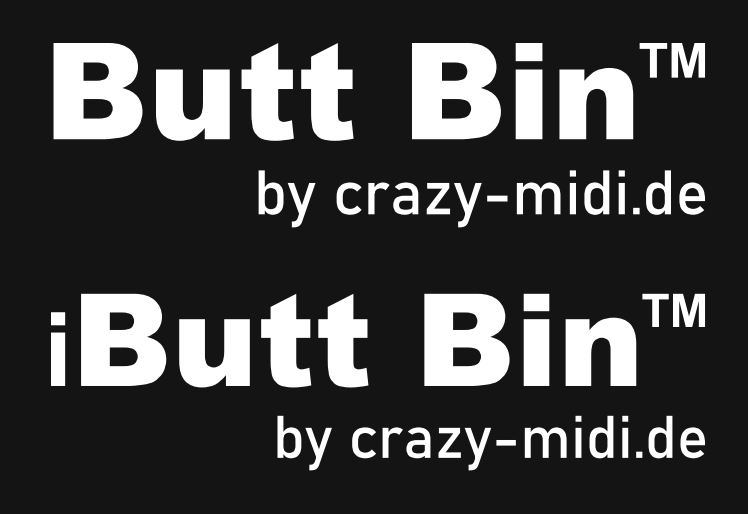
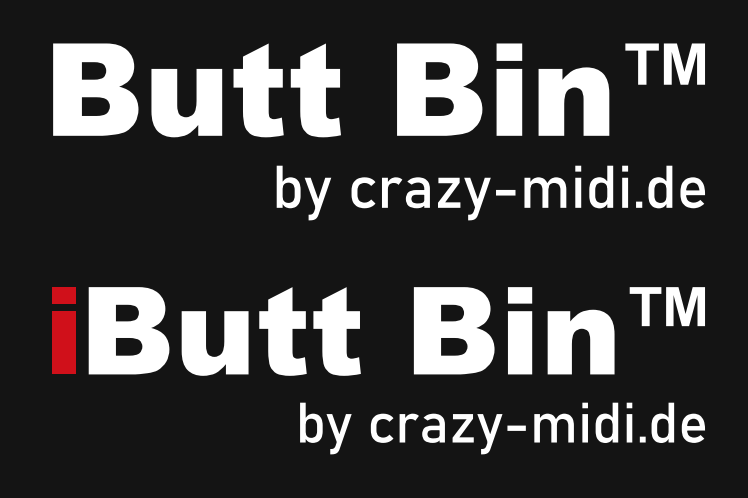
Sticker: real trademark glyph, red i in the same face and size
The TM is now the ™ character. In the i variant the i is set like the
Apple names: same typeface and size as the rest, only red (separate
path with id Akzent in the SVG for a second print colour).
aufkleber_i_am_ascher.png shows it on the pot.

diff --git a/design/aufkleber/gen_aufkleber.py b/design/aufkleber/gen_aufkleber.py
@@ -17,16 +17,17 @@ FONTS = os.path.join(os.environ.get("WINDIR", r"C:\Windows"), "Fonts")
 WIDTH = 30.0          # Breite des Aufklebers in mm
 MARGIN = 1.0          # Rand um den Text in mm (Schnittkante)
 COLORS = {"weiss": "#ffffff", "schwarz": "#000000"}   # weiss: fuer die schwarze Haube (Weissdruck)
+ACCENT = "#d0101a"    # Akzentfarbe (rot) fuer das vorangestellte Zeichen
 
 name = TextPath((0, 0), "Butt Bin", size=10, prop=FontProperties(fname=os.path.join(FONTS, "ariblk.ttf")))
-# Variante zur Ansicht: kleines vorangestelltes Zeichen (z. B. AUFKLEBER_PREFIX=i -> "iButt Bin"), eigene Dateien
+# Variante: vorangestelltes Zeichen in Rot (AUFKLEBER_PREFIX=i -> "iButt Bin"), eigene Dateien
 PREFIX = os.environ.get("AUFKLEBER_PREFIX", "")
 SUFFIX = "_" + PREFIX if PREFIX else ""
+pre = None
 if PREFIX:
-    pre = TextPath((0, 0), PREFIX, size=8.0, prop=FontProperties(fname=os.path.join(FONTS, "arialbd.ttf")))
-    pw = pre.vertices[:, 0].max() + 0.5
-    name = Path.make_compound_path(pre, Path(name.vertices + (pw, 0), name.codes))
-tm = TextPath((0, 0), "TM", size=3.6, prop=FontProperties(fname=os.path.join(FONTS, "arialbd.ttf")))
+    pre = TextPath((0, 0), PREFIX, size=10, prop=FontProperties(fname=os.path.join(FONTS, "ariblk.ttf")))   # wie bei Apple: gleiche Schrift und Groesse
+    name = Path(name.vertices + (pre.vertices[:, 0].max() + 0.3, 0), name.codes)
+tm = TextPath((0, 0), "™", size=8.0, prop=FontProperties(fname=os.path.join(FONTS, "arialbd.ttf")))   # Zeichen ™
 by = TextPath((0, 0), "by crazy-midi.de", size=4.6, prop=FontProperties(fname=os.path.join(FONTS, "bahnschrift.ttf")))
 
 
@@ -39,15 +40,18 @@ def moved(p, dx, dy):
     return Path(p.vertices + (dx, dy), p.codes)
 
 
-# Anordnung in Schrift-Einheiten: Name oben, TM hochgestellt dahinter, Zeile darunter rechtsbuendig
+# Anordnung in Schrift-Einheiten: Name oben, ™ hochgestellt dahinter, Zeile darunter rechtsbuendig
 nx0, ny0, nx1, ny1 = extents(name)
 tm = moved(tm, nx1 + 0.4 - extents(tm)[0], ny1 - extents(tm)[3])
+if pre is not None:
+    nx0 = extents(pre)[0]
 bx0, by0, bx1, by1 = extents(by)
 line_w = extents(tm)[2] - nx0
 by = moved(by, nx0 + line_w - bx1, ny0 - 2.2 - by1)
-parts = [name, tm, by]
-x0 = min(extents(p)[0] for p in parts); y0 = min(extents(p)[1] for p in parts)
-x1 = max(extents(p)[2] for p in parts); y1 = max(extents(p)[3] for p in parts)
+# (Pfad, Akzent?) - das vorangestellte Zeichen in Rot, der Rest in der Druckfarbe
+parts = [(name, False), (tm, False), (by, False)] + ([(pre, True)] if pre is not None else [])
+x0 = min(extents(p)[0] for p, _ in parts); y0 = min(extents(p)[1] for p, _ in parts)
+x1 = max(extents(p)[2] for p, _ in parts); y1 = max(extents(p)[3] for p, _ in parts)
 scale = (WIDTH - 2 * MARGIN) / (x1 - x0)
 height = (y1 - y0) * scale + 2 * MARGIN
 
@@ -74,14 +78,16 @@ def svg_path(p):
     return " ".join(out)
 
 
-d = " ".join(svg_path(p) for p in parts)
+d = " ".join(svg_path(p) for p, accent in parts if not accent)
+d_accent = " ".join(svg_path(p) for p, accent in parts if accent)
+accent_svg = '  <path fill="%s" fill-rule="nonzero" d="%s" id="Akzent"/>\n' % (ACCENT, d_accent) if d_accent else ""
 for key, color in COLORS.items():
     svg = ('<svg xmlns="http://www.w3.org/2000/svg" width="%.2fmm" height="%.2fmm" viewBox="0 0 %.2f %.2f">\n'
            '  <!-- Butt Bin Aufkleber, %s auf transparenter Folie; Schnittkante = Rechteck mit runden Ecken -->\n'
            '  <rect x="0.15" y="0.15" width="%.2f" height="%.2f" rx="1.2" fill="none" stroke="#ff00ff" '
            'stroke-width="0.1" id="Schnittkontur"/>\n'
-           '  <path fill="%s" fill-rule="nonzero" d="%s"/>\n</svg>\n'
-           % (WIDTH, height, WIDTH, height, key, WIDTH - 0.3, height - 0.3, color, d))
+           '  <path fill="%s" fill-rule="nonzero" d="%s"/>\n%s</svg>\n'
+           % (WIDTH, height, WIDTH, height, key, WIDTH - 0.3, height - 0.3, color, d, accent_svg))
     with open(os.path.join(HERE, "buttbin_aufkleber%s_%s.svg" % (SUFFIX, key)), "w", encoding="utf-8") as f:
         f.write(svg)
 
@@ -94,8 +100,8 @@ for key, color in COLORS.items():
     ax = fig.add_axes((0, 0, 1, 1)); ax.set_axis_off()
     ax.set_xlim(0, WIDTH); ax.set_ylim(0, height)
     tr = Affine2D().translate(-x0, -y0).scale(scale).translate(MARGIN, MARGIN)
-    for p in parts:
-        ax.add_patch(PathPatch(tr.transform_path(p), facecolor=color, edgecolor="none"))
+    for p, accent in parts:
+        ax.add_patch(PathPatch(tr.transform_path(p), facecolor=ACCENT if accent else color, edgecolor="none"))
     fig.savefig(os.path.join(HERE, "buttbin_aufkleber%s_%s.png" % (SUFFIX, key)), transparent=True)
     plt.close(fig)
 print("Aufkleber %.1f x %.1f mm" % (WIDTH, height))
